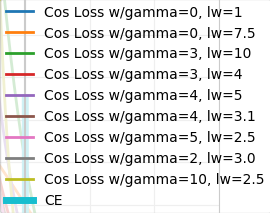
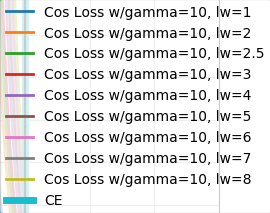
bbox transform for iou-loss

diff --git a/configs/lrp_optimization/SmoothL1CosLoss/0_misc/faster_rcnn_r50_fpn_1x_SmoothL1_CosLoss_analysis.py b/configs/lrp_optimization/SmoothL1CosLoss/0_misc/faster_rcnn_r50_fpn_1x_SmoothL1_CosLoss_analysis.py
@@ -1,0 +1,177 @@
+# model settings
+model = dict(
+    type='FasterRCNN',
+    pretrained='torchvision://resnet50',
+    backbone=dict(
+        type='ResNet',
+        depth=50,
+        num_stages=4,
+        out_indices=(0, 1, 2, 3),
+        frozen_stages=1,
+        style='pytorch'),
+    neck=dict(
+        type='FPN',
+        in_channels=[256, 512, 1024, 2048],
+        out_channels=256,
+        num_outs=5),
+    rpn_head=dict(
+        type='RPNHead',
+        in_channels=256,
+        feat_channels=256,
+        anchor_scales=[8],
+        anchor_ratios=[0.5, 1.0, 2.0],
+        anchor_strides=[4, 8, 16, 32, 64],
+        target_means=[.0, .0, .0, .0],
+        target_stds=[1.0, 1.0, 1.0, 1.0],
+        loss_cls=dict(
+            type='CrossEntropyLoss', use_sigmoid=True, loss_weight=1.0),
+        loss_bbox=dict(type='SmoothL1Loss', beta= 1.0/9.0, loss_weight=1.0)),
+    bbox_roi_extractor=dict(
+        type='SingleRoIExtractor',
+        roi_layer=dict(type='RoIAlign', out_size=7, sample_num=2),
+        out_channels=256,
+        featmap_strides=[4, 8, 16, 32]),
+    bbox_head=dict(
+        type='SharedFCBBoxHead',
+        num_fcs=2,
+        in_channels=256,
+        fc_out_channels=1024,
+        roi_feat_size=7,
+        num_classes=81,
+        target_means=[0., 0., 0., 0.],
+        target_stds=[0.1, 0.1, 0.2, 0.2],
+        reg_class_agnostic=False,
+        loss_cls=dict(
+            type='LRPLoss', use_sigmoid=False, loss_weight=1.0, \
+                  use_modulator = False, gamma = 1.0),
+        #loss_cls = dict(
+        #    type = 'CrossEntropyLoss', use_sigmoid=False, loss_weight=1.0),
+        loss_bbox=dict(type='SmoothL1Loss', beta=1.0, loss_weight=1.0)))
+# model training and testing settings
+train_cfg = dict(
+    rpn=dict(
+        assigner=dict(
+            type='MaxIoUAssigner',
+            pos_iou_thr=0.7,
+            neg_iou_thr=0.3,
+            min_pos_iou=0.3,
+            ignore_iof_thr=-1),
+        sampler=dict(
+            type='RandomSampler',
+            num=512,
+            pos_fraction=0.25,
+            neg_pos_ub=-1,
+            add_gt_as_proposals=False),
+        allowed_border=0,
+        pos_weight=-1,
+        debug=False),
+    rpn_proposal=dict(
+        nms_across_levels=False,
+        nms_pre=2000,
+        nms_post=2000,
+        max_num=2000,
+        nms_thr=0.7,
+        min_bbox_size=0),
+    rcnn=dict(
+        assigner=dict(
+            type='MaxIoUAssigner',
+            pos_iou_thr=0.5,
+            neg_iou_thr=0.5,
+            min_pos_iou=0.5,
+            ignore_iof_thr=-1),
+        sampler=dict(
+            type='RandomSampler',
+            num=512,
+            pos_fraction=0.25,
+            neg_pos_ub=-1,
+            add_gt_as_proposals=True),
+        pos_weight=-1,
+        debug=False))
+test_cfg = dict(
+    rpn=dict(
+        nms_across_levels=False,
+        nms_pre=1000,
+        nms_post=1000,
+        max_num=1000,
+        nms_thr=0.7,
+        min_bbox_size=0),
+    rcnn=dict(
+        score_thr=0.05, nms=dict(type='nms', iou_thr=0.5), max_per_img=100)
+    # soft-nms is also supported for rcnn testing
+    # e.g., nms=dict(type='soft_nms', iou_thr=0.5, min_score=0.05)
+)
+# dataset settings
+dataset_type = 'CocoDataset'
+data_root = 'data/coco/'
+img_norm_cfg = dict(
+    mean=[123.675, 116.28, 103.53], std=[58.395, 57.12, 57.375], to_rgb=True)
+train_pipeline = [
+    dict(type='LoadImageFromFile'),
+    dict(type='LoadAnnotations', with_bbox=True),
+    dict(type='Resize', img_scale=(1333, 800), keep_ratio=True),
+    dict(type='RandomFlip', flip_ratio=0.5),
+    dict(type='Normalize', **img_norm_cfg),
+    dict(type='Pad', size_divisor=32),
+    dict(type='DefaultFormatBundle'),
+    dict(type='Collect', keys=['img', 'gt_bboxes', 'gt_labels']),
+]
+test_pipeline = [
+    dict(type='LoadImageFromFile'),
+    dict(
+        type='MultiScaleFlipAug',
+        img_scale=(1333, 800),
+        flip=False,
+        transforms=[
+            dict(type='Resize', keep_ratio=True),
+            dict(type='RandomFlip'),
+            dict(type='Normalize', **img_norm_cfg),
+            dict(type='Pad', size_divisor=32),
+            dict(type='ImageToTensor', keys=['img']),
+            dict(type='Collect', keys=['img']),
+        ])
+]
+data = dict(
+    imgs_per_gpu=1,
+    workers_per_gpu=1,
+    train=dict(
+        type=dataset_type,
+        ann_file=data_root + 'annotations/instances_train2017_minicoco.json',
+        img_prefix=data_root + 'train2017/',
+        pipeline=train_pipeline),
+    val=dict(
+        type=dataset_type,
+        ann_file=data_root + 'annotations/instances_val2017.json',
+        img_prefix=data_root + 'val2017/',
+        pipeline=test_pipeline),
+    test=dict(
+        type=dataset_type,
+        ann_file=data_root + 'annotations/instances_val2017.json',
+        img_prefix=data_root + 'val2017/',
+        pipeline=test_pipeline))
+# optimizer
+optimizer = dict(type='SGD', lr=0.00125, momentum=0.9, weight_decay=0.0001)
+optimizer_config = dict(grad_clip=dict(max_norm=35, norm_type=2))
+# learning policy
+lr_config = dict(
+    policy='step',
+    warmup='linear',
+    warmup_iters=500,
+    warmup_ratio=1.0 / 3,
+    step=[8, 11])
+checkpoint_config = dict(interval=1)
+# yapf:disable
+log_config = dict(
+    interval=50,
+    hooks=[
+        dict(type='TextLoggerHook'),
+        #dict(type='TensorboardLoggerHook')
+    ])
+# yapf:enable
+# runtime settings
+total_epochs = 1
+dist_params = dict(backend='nccl')
+log_level = 'INFO'
+work_dir = './work_dirs/lrp_optimization/faster_rcnn_r50_fpn_1x_SmoothL1_CosLoss_analysis'
+load_from = None
+resume_from = None
+workflow = [('train', 1)]

diff --git a/mmdet/models/bbox_heads/bbox_head.py b/mmdet/models/bbox_heads/bbox_head.py
@@ -4,12 +4,13 @@ import torch.nn.functional as F
 from torch.nn.modules.utils import _pair
 
 from mmdet.core import (auto_fp16, bbox_target, delta2bbox, force_fp32,
-                        multiclass_nms)
+                        multiclass_nms, transform_boxes)
 from ..builder import build_loss
 from ..losses import accuracy
 from ..registry import HEADS
 
 import pdb
+import inspect
 
 @HEADS.register_module
 class BBoxHead(nn.Module):
@@ -45,9 +46,9 @@ class BBoxHead(nn.Module):
         self.target_stds = target_stds
         self.reg_class_agnostic = reg_class_agnostic
         self.fp16_enabled = False
-
         self.loss_cls = build_loss(loss_cls)
         self.loss_bbox = build_loss(loss_bbox)
+        self.loss_bbox_type = loss_bbox['type']
         in_channels = self.in_channels
         if self.with_avg_pool:
             self.avg_pool = nn.AvgPool2d(self.roi_feat_size)
@@ -59,7 +60,7 @@ class BBoxHead(nn.Module):
             out_dim_reg = 4 if reg_class_agnostic else 4 * num_classes
             self.fc_reg = nn.Linear(in_channels, out_dim_reg)
         self.debug_imgs = None
-
+        
     def init_weights(self):
         if self.with_cls:
             nn.init.normal_(self.fc_cls.weight, 0, 0.01)
@@ -121,6 +122,13 @@ class BBoxHead(nn.Module):
             else:
                 pos_bbox_pred = bbox_pred.view(bbox_pred.size(0), -1,
                                                4)[pos_inds, labels[pos_inds]]
+            # apply inverse delta transform for pos_bbox_pred
+            # and bbox_targets
+            if self.loss_bbox_type == 'IoULoss':
+                pos_bbox_pred_ = transform_boxes(pos_bbox_pred)
+                bbox_targets_ = transform_boxes(bbox_targets[pos_inds])
+            pos_bbox_pred = pos_bbox_pred_
+            bbox_targets[pos_inds] = bbox_targets_
             losses['loss_bbox'] = self.loss_bbox(
                 pos_bbox_pred,
                 bbox_targets[pos_inds],

diff --git a/mmdet/core/bbox/transforms.py b/mmdet/core/bbox/transforms.py
@@ -2,6 +2,34 @@ import mmcv
 import numpy as np
 import torch
 
+import pdb
+
+def transform_boxes(deltas, 
+                    means=[0., 0., 0., 0.], 
+                    stds=[1., 1., 1., 1.], 
+                    max_shape=None, 
+                    wh_ratio_clip=16/1000):
+    
+    wx, wy, ww, wh = stds
+    dx = deltas[:, 0] / wx
+    dy = deltas[:, 1] / wy
+    dw = deltas[:, 2] / ww
+    dh = deltas[:, 3] / wh
+
+    dw.clamp(min=-wh_ratio_clip, max=wh_ratio_clip)
+    dh.clamp(min=-wh_ratio_clip, max=wh_ratio_clip)
+
+    pred_ctr_x = dx
+    pred_ctr_y = dy
+    pred_w = torch.exp(dw)
+    pred_h = torch.exp(dh)
+
+    x1 = pred_ctr_x - 0.5 * pred_w
+    y1 = pred_ctr_y - 0.5 * pred_h
+    x2 = pred_ctr_x + 0.5 * pred_w
+    y2 = pred_ctr_y + 0.5 * pred_h
+    
+    return torch.stack([x1, y1, x2, y2], dim=-1)
 
 def bbox2delta(proposals, gt, means=[0, 0, 0, 0], stds=[1, 1, 1, 1]):
     assert proposals.size() == gt.size()
@@ -37,6 +65,7 @@ def delta2bbox(rois,
                stds=[1, 1, 1, 1],
                max_shape=None,
                wh_ratio_clip=16 / 1000):
+    #print (stds, means, max_shape, wh_ratio_clip)
     means = deltas.new_tensor(means).repeat(1, deltas.size(1) // 4)
     stds = deltas.new_tensor(stds).repeat(1, deltas.size(1) // 4)
     denorm_deltas = deltas * stds + means
@@ -65,6 +94,7 @@ def delta2bbox(rois,
         x2 = x2.clamp(min=0, max=max_shape[1] - 1)
         y2 = y2.clamp(min=0, max=max_shape[0] - 1)
     bboxes = torch.stack([x1, y1, x2, y2], dim=-1).view_as(deltas)
+     
     return bboxes
 
 

diff --git a/mmdet/models/losses/lrp_loss.py b/mmdet/models/losses/lrp_loss.py
@@ -1,11 +1,26 @@
 import torch
 import torch.nn as nn
 import torch.nn.functional as F
+import numpy as np
 
+from pathlib import Path
 from ..registry import LOSSES
 from .utils import weight_reduce_loss
 import pdb
 
+def parse_samples(valid_labels,
+                  valid_preds,
+                  loss):
+    
+    tuple_ = np.concatenate((np.expand_dims(valid_preds.detach().cpu().numpy(), 1), \
+              np.expand_dims(valid_labels.detach().cpu().numpy(),1),\
+              np.expand_dims(loss.detach().cpu().numpy(),1)), \
+              axis=1)
+
+    p = Path('/home/cancam/workspace/mmdetection/class_analysis.txt')
+    with p.open("ab") as fp:
+        np.savetxt(fp, tuple_)
+        fp.close()
 
 def lrp_loss(pred, 
              label, 
@@ -20,14 +35,19 @@ def lrp_loss(pred,
     valid_inds = ((weight>0).nonzero()).flatten()
     valid_labels = label[valid_inds]
     valid_preds = pred_softmax[valid_inds, valid_labels]
+    
     if weight is not None:
         weight = weight.float()
     
     loss = torch.cos(1.57*valid_preds+1.57)+1
+    
+    parse_samples(valid_labels, valid_preds, loss)
+    
     if use_modulator:
         loss = torch.pow((1-valid_preds), gamma)*loss
 
     loss = weight_reduce_loss(loss, reduction=reduction, avg_factor=avg_factor)
+    
     return loss
 
 

diff --git a/mmdet/core/bbox/__init__.py b/mmdet/core/bbox/__init__.py
@@ -6,7 +6,7 @@ from .samplers import (BaseSampler, CombinedSampler,
                        PseudoSampler, RandomSampler, SamplingResult)
 from .transforms import (bbox2delta, bbox2result, bbox2roi, bbox_flip,
                          bbox_mapping, bbox_mapping_back, delta2bbox,
-                         distance2bbox, roi2bbox)
+                         distance2bbox, roi2bbox, transform_boxes)
 
 from .assign_sampling import (  # isort:skip, avoid recursive imports
     assign_and_sample, build_assigner, build_sampler)
@@ -18,5 +18,5 @@ __all__ = [
     'SamplingResult', 'build_assigner', 'build_sampler', 'assign_and_sample',
     'bbox2delta', 'delta2bbox', 'bbox_flip', 'bbox_mapping',
     'bbox_mapping_back', 'bbox2roi', 'roi2bbox', 'bbox2result',
-    'distance2bbox', 'bbox_target'
+    'distance2bbox', 'bbox_target', 'transform_boxes'
 ]

diff --git a/plots/try_cosine.py b/plots/try_cosine.py
@@ -31,15 +31,15 @@ if __name__ == '__main__':
             param_sub = [gamma, lw]
             gamma_lw.append(param_sub)
     else:    
-        gamma_lw = [[0, 1], \
-        [0, 7.5], \
-        [3, 10], \
-        [3, 4], \
-        [4, 5],  \
-        [4, 3.1], \
-        [5, 2.5], \
-        [2, 3.0], \
-        [10, 2.5]]
+        gamma_lw = [[10, 1], \
+        [10, 2], \
+        [10, 2.5], \
+        [10, 3], \
+        [10, 4],  \
+        [10, 5], \
+        [10, 6], \
+        [10, 7], \
+        [10, 8]]
         
         #gamma_lw = [[2, 1.5], \
         #[2, 2.0], \

diff --git a/read_analysis.py b/read_analysis.py
@@ -1,0 +1,15 @@
+from pathlib import Path
+from matplotlib import pyplot as plt
+import numpy as np
+import os
+import pdb
+
+
+if __name__ == '__main__':
+    p = Path('/home/cancam/workspace/mmdetection/class_analysis.txt')
+    out_list = []
+    with p.open('rb') as f:
+        #fsz = os.fstat(f.fileno()).st_size
+        out = np.loadtxt(f) 
+    plt.hist([out[:, 0], out[:,2]])
+    plt.show()

diff --git a/mmdet/models/losses/cross_entropy_loss.py b/mmdet/models/losses/cross_entropy_loss.py
@@ -4,7 +4,7 @@ import torch.nn.functional as F
 
 from ..registry import LOSSES
 from .utils import weight_reduce_loss
-
+import pdb
 
 def cross_entropy(pred, label, weight=None, reduction='mean', avg_factor=None):
     # element-wise losses

diff --git a/mmdet/models/losses/iou_loss.py b/mmdet/models/losses/iou_loss.py
@@ -23,7 +23,6 @@ def iou_loss(pred, target, eps=1e-6):
     Return:
         Tensor: Loss tensor.
     """
-    
     ious = bbox_overlaps(pred, target, is_aligned=True).clamp(min=eps)
     loss = -ious.log()
     return loss
